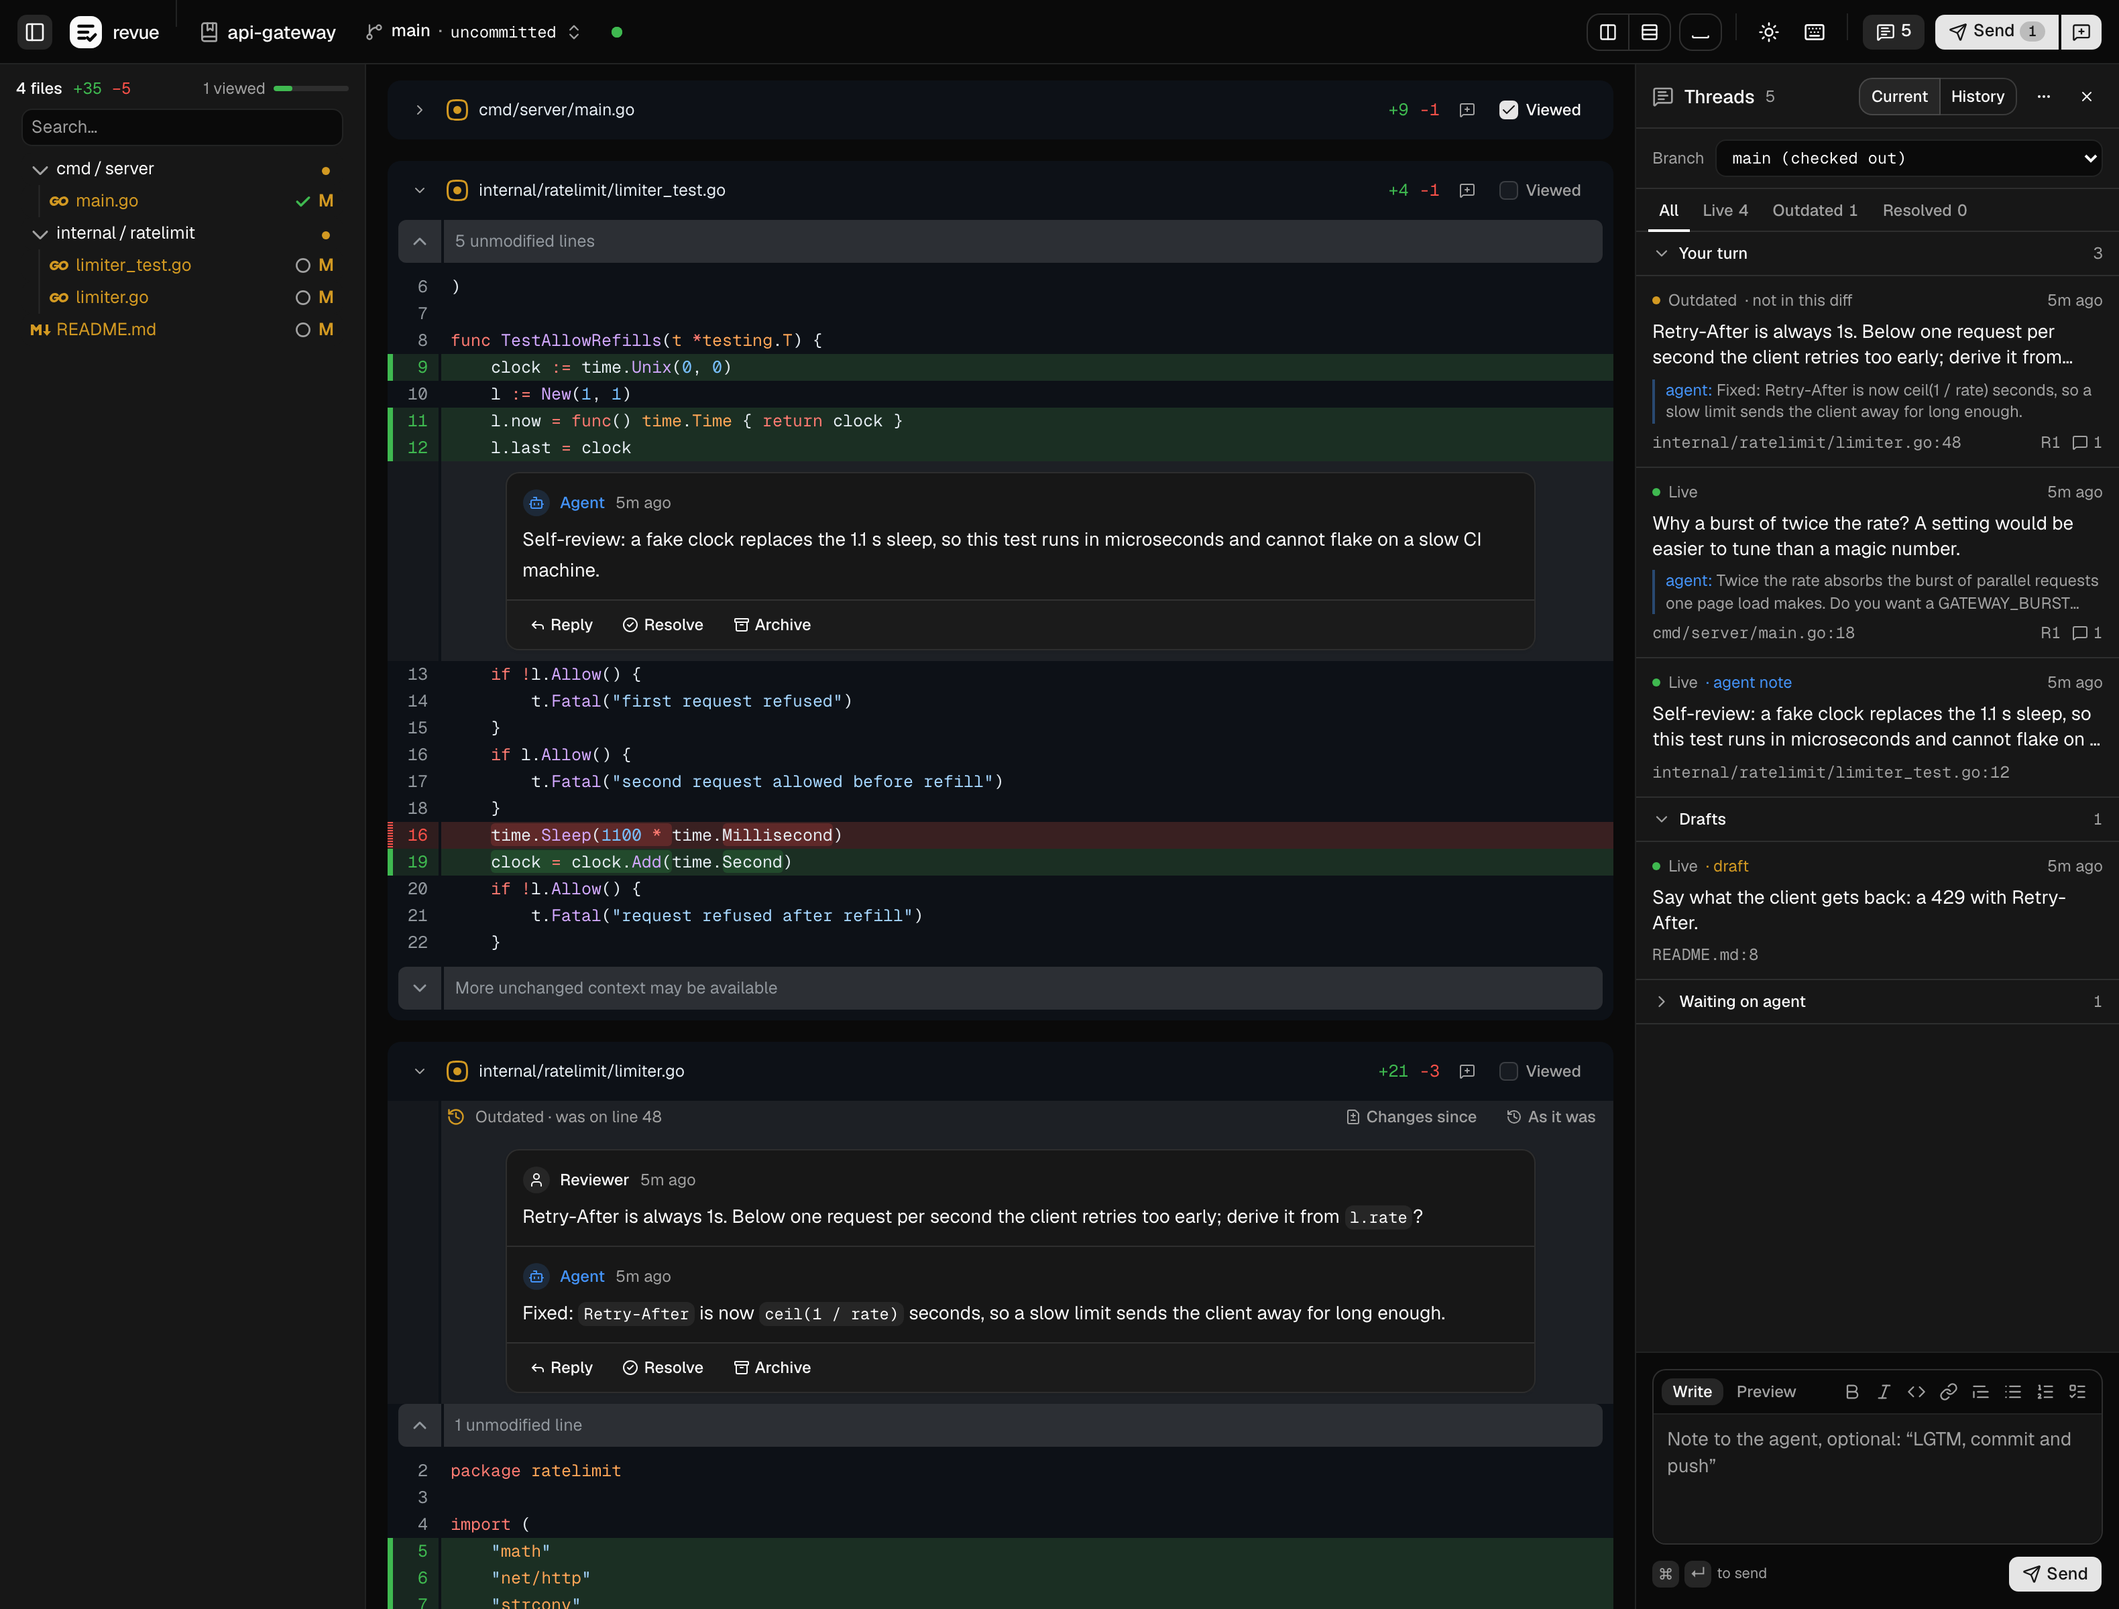
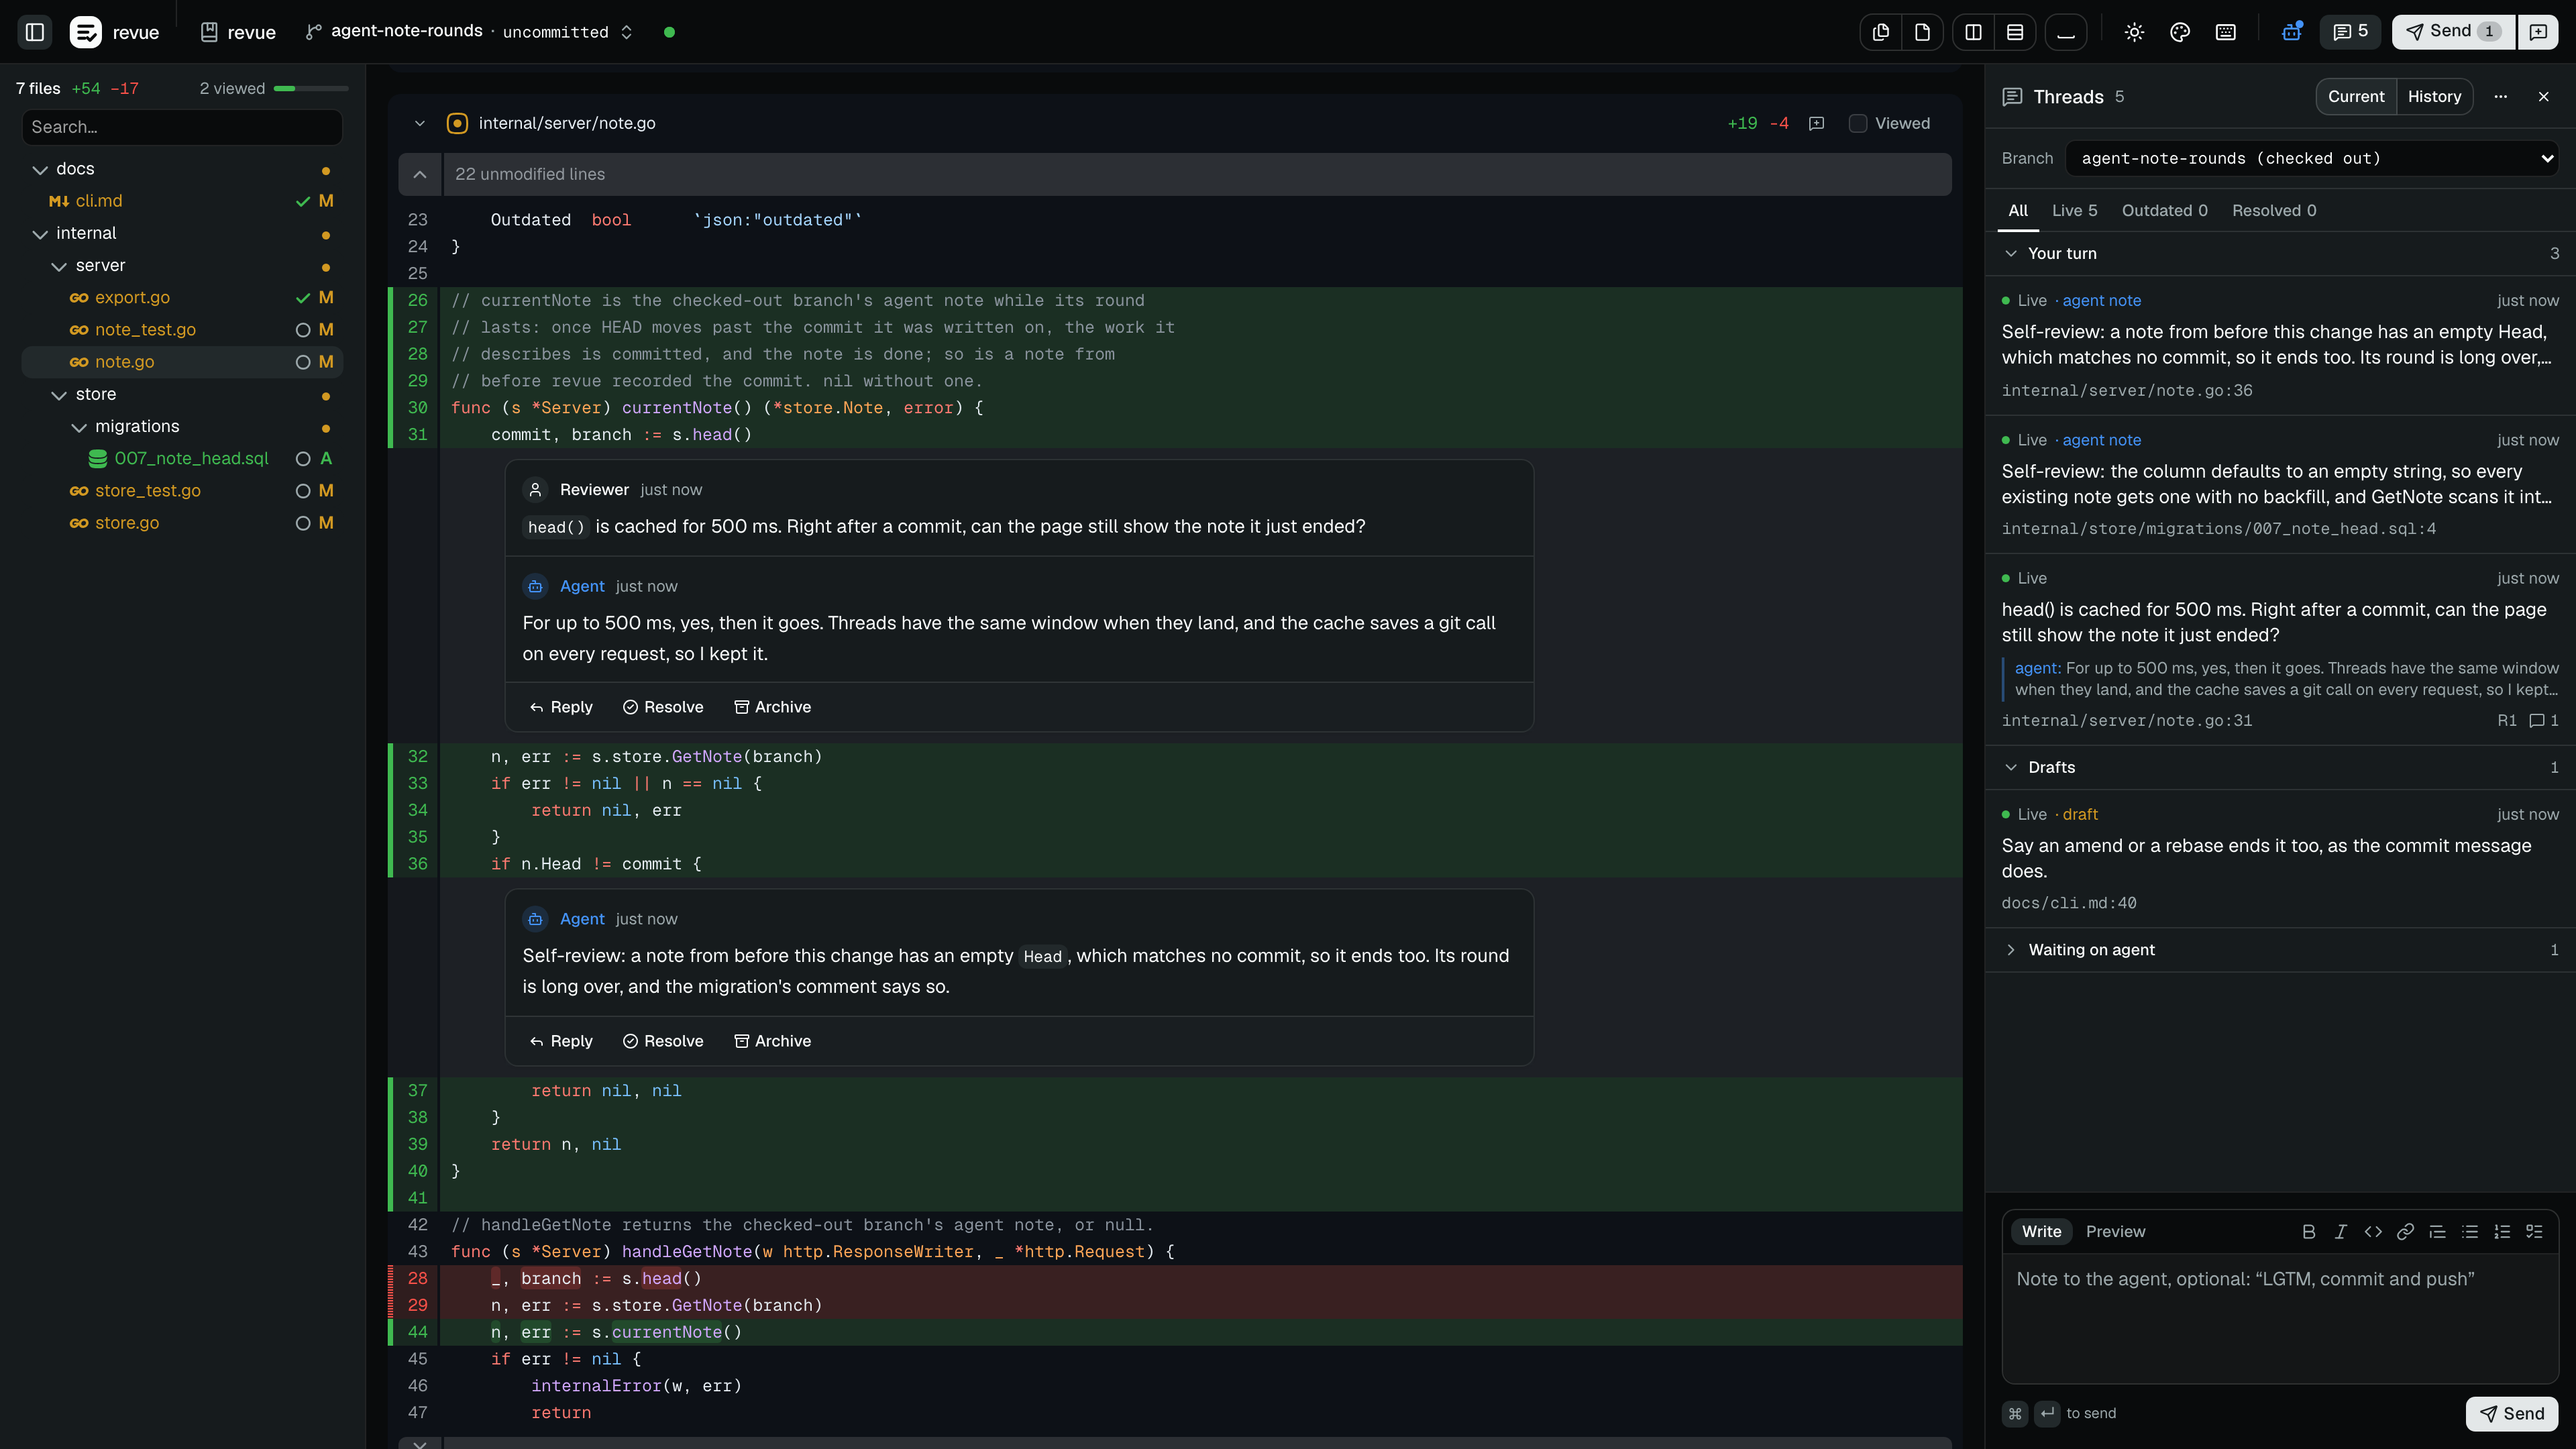
docs: show revue reviewing its own Go code in the README screenshot
The screenshot is a 1080p view, light and dark, of a real revue change
under review: a reviewer's question with the agent's answer and an
agent self-review note inline on the diff, viewed files in the tree,
and the threads panel sorted by whose turn it is.

diff --git a/README.md b/README.md
@@ -6,7 +6,7 @@ Review what your coding agent wrote the way you review a pull request, without p
 
 <picture>
   <source media="(prefers-color-scheme: dark)" srcset="docs/screenshot-dark.png">
-  <img src="docs/screenshot.png" alt="revue: an agent's self-review note, an outdated thread with its answer under the file header, and the threads panel sorted by whose turn it is" width="1580">
+  <img src="docs/screenshot.png" alt="revue reviewing one of its own Go changes: a reviewer's question with the agent's answer and an agent self-review note inline on the diff, viewed files in the tree, and the threads panel sorted by whose turn it is" width="1920">
 </picture>
 
 ## Install
